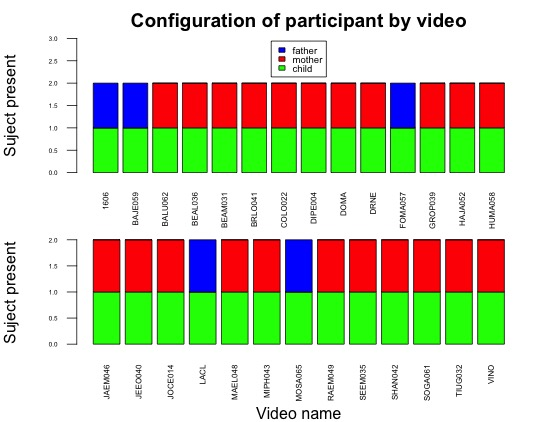
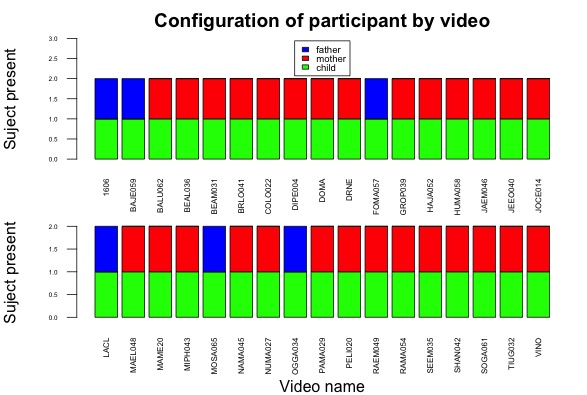
plots

diff --git a/steps2.md b/steps2.md
@@ -557,6 +557,7 @@ The aim of the study was to evaluate the response to conflict in a dyad of a par
 Consequently, from these videos, we can extract easily two phases : without then with conflict.
 
 ##### Configuration
+
 The participants are two in front of the camera. We can see that the quality of the video is much better. There is not overlap between the subject. There isn't embedded subjects. There is not any date embedded.
 
 ![image](https://raw.githubusercontent.com/Ouphix/synchro-psychotherapies/master/Monrado/Data/images/ExampleFrames/00034.jpg)
@@ -565,9 +566,17 @@ The participants are two in front of the camera. We can see that the quality of 
 
 ![image](https://raw.githubusercontent.com/Ouphix/synchro-psychotherapies/master/Monrado/Data/images/ExampleFrames/00034.MTS.child.png)
 
+##### Selection of relevant videos
+
+In order to match the psychometric data which was more important and the videos, we decided to clean the database to delete the copies and keep the data with psychometric informations. We decided to delete a video with a different configuration with the two parents.
+
+![image](https://raw.githubusercontent.com/Ouphix/synchro-psychotherapies/master/Monrado/Data/images/report/FlowchartMonrado.jpeg)
+
+
+
 ![](https://raw.githubusercontent.com/Ouphix/synchro-psychotherapies/master/Monrado/Data/images/plots/configuration.jpeg)
 
-The configuration in the different videos are very similar. There is only one video with 3 persons.
+The configuration in the different videos are very similar. There is only one video with 3 persons which was excluded.
 
 #### Psychometric data
 * It consist of one excel file with:
@@ -621,9 +630,6 @@ BDI Score
 #### Description of the database
 * We collected a database of 85.48 Gb of 40 videos, with a rate of 25 frames by second.
 * They are encoded in a [MTS format](https://en.wikipedia.org/wiki/AVCHD) in a much better quality than the previous database.
-
-##### Selection of relevant videos
-![image](https://raw.githubusercontent.com/Ouphix/synchro-psychotherapies/master/Monrado/Data/images/report/FlowchartMonrado.jpeg)
 
 ##### Length of the videos
 ![image](https://raw.githubusercontent.com/Ouphix/synchro-psychotherapies/master/Monrado/Data/images/plots/LengthVideoMONRADO.jpeg)
